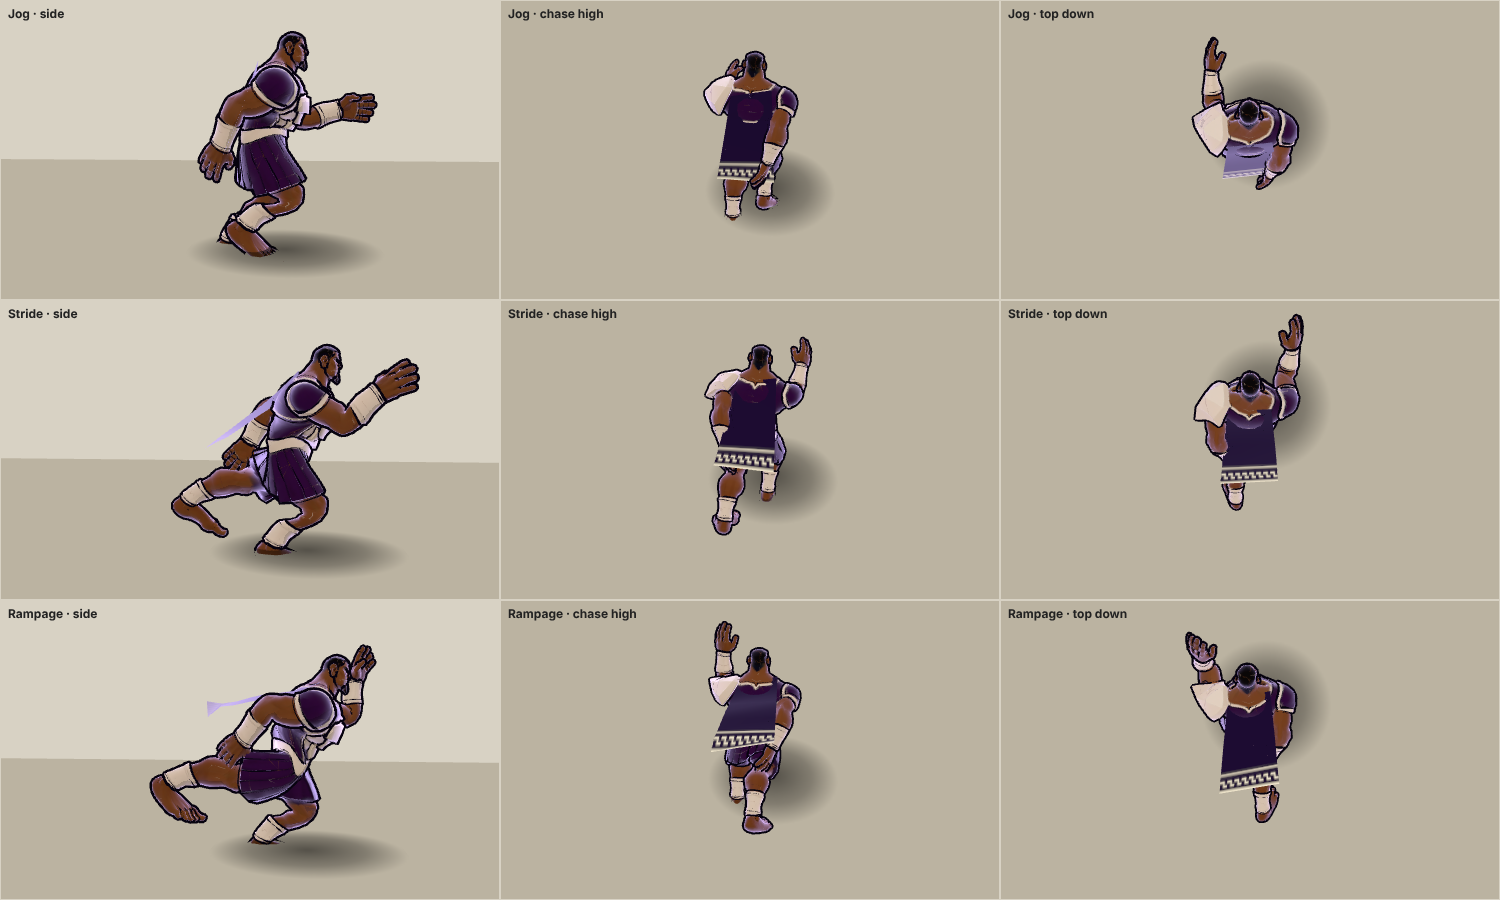
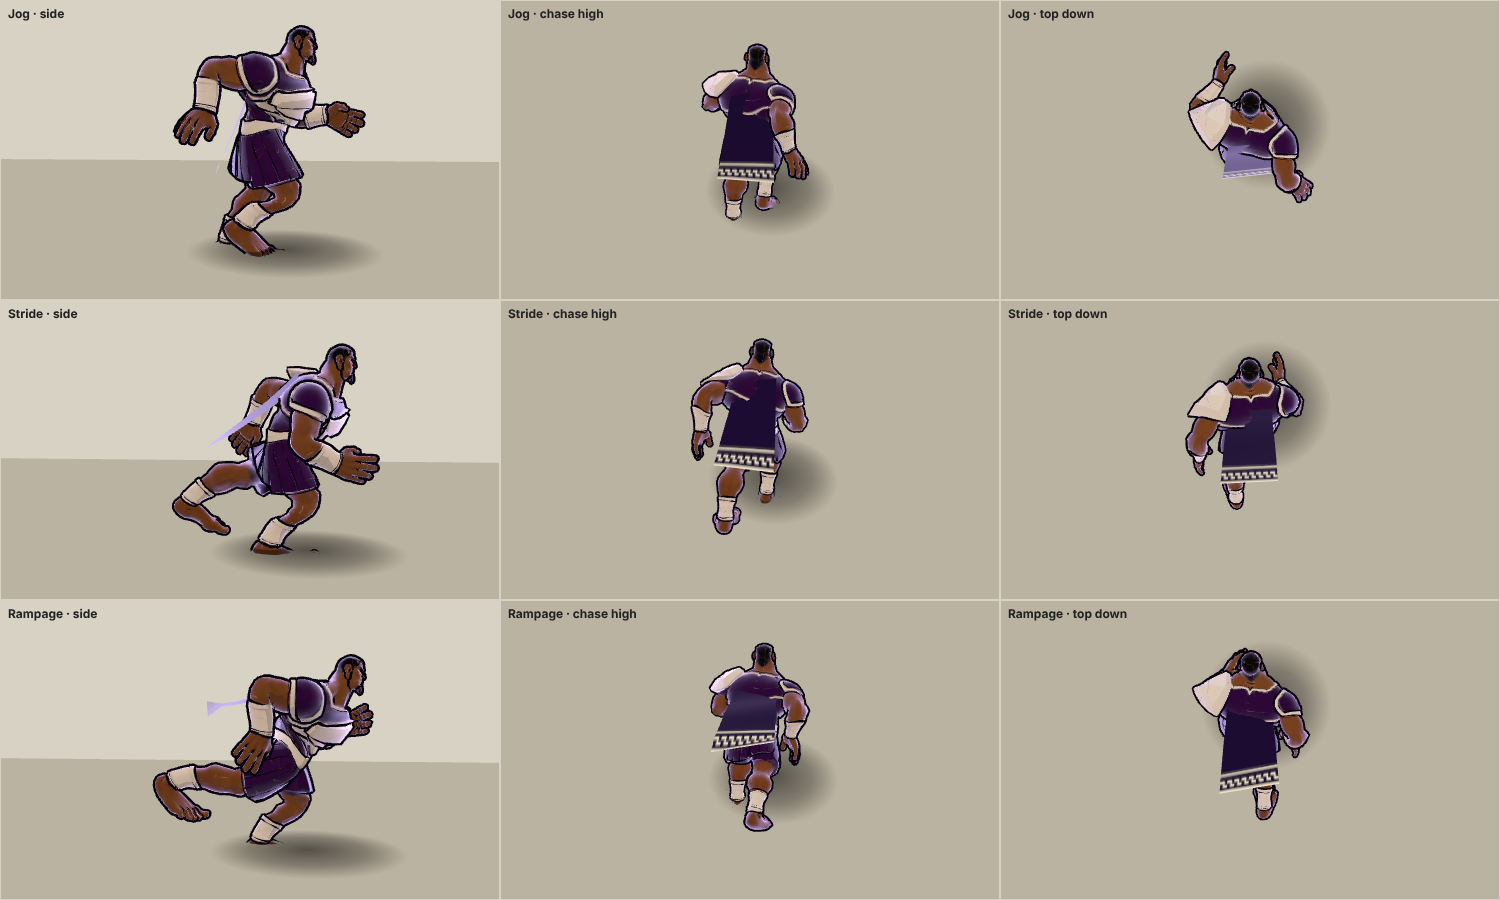
De-jank the Meshy run: gait legs + Meshy's run clip upper body; skip preview builds
Legs and hips stay on the gait (two-bone IK from his own hips to the
gait's planted feet, hips a touch higher), so feet stay pinned. The upper
body plays Meshy's run clip time-locked to the stride, arm swing scaled
per tier, chest held at the tier's lean. Meshy names the spine top-down,
which the first pass had backwards. Stride-strip tool for judging it.
vercel.json skips non-production builds (previews can't fetch the shell).

Claude-Session: https://claude.ai/code/session_01U6CEtzBnsd5sKqjjyRSivB

diff --git a/src/render/giantModel.ts b/src/render/giantModel.ts
@@ -4,13 +4,16 @@ import type { GaitFrame, Vec3 } from '../anim/gait';
 import { TUNING } from '../tuning';
 import { PALETTE } from './palette';
 import { rimToonMap } from './toon';
+import runClip from '../assets/giant/run.json';
 
 /**
  * The Meshy giant (Mike's character sheet → image edit without the cape → image-to-3D →
  * rigging). A presentation skin over the greybox rig: GiantView still computes every pose
- * (gait IK legs, lean, twist, arm pump, flex, steady head); this only aims the skinned bones
- * along it each frame, so feel and the pinned feet are untouched. Meshy's own run clip is
- * not used. Until (or unless) it loads, the greybox shows.
+ * (gait IK legs, lean, twist, flex, steady head); the skinned legs and hips follow it, so feel
+ * and the pinned feet are untouched. The upper body (spine sway, shoulders, arm pump) plays
+ * Meshy's run clip, time-locked to the stride so the arms always swing against the legs, with
+ * the tier's lean and arm amplitude on top. The Pose, the Shoulder Check and Leap take the arms
+ * back to the procedural pose. Until (or unless) it loads, the greybox shows.
  */
 
 /** What the greybox pose gives this frame (world space). */
@@ -24,6 +27,14 @@ export interface GreyboxPose {
   gait: GaitFrame;
   /** Foot pitch per gait leg (rad): toes down while swinging. */
   footPitch: [number, number];
+  /** Continuous step position (two steps = one clip cycle) and tier. */
+  stepPos: number;
+  tier: number;
+  /** The greybox torso's forward lean and bank (rad), without its stride twist (the clip has its own sway). */
+  lean: number;
+  bank: number;
+  /** Pose, Shoulder Check or Leap: arms follow the procedural pose instead of the clip. */
+  armsProcedural: boolean;
 }
 
 interface Chain {
@@ -51,6 +62,15 @@ export class GiantModel {
   /** Turns the model (built facing +Z) to face the greybox's +X. */
   private readonly face = new THREE.Quaternion().setFromAxisAngle(new THREE.Vector3(0, 1, 0), Math.PI / 2);
   private q = [new THREE.Quaternion(), new THREE.Quaternion(), new THREE.Quaternion(), new THREE.Quaternion()];
+  private mixer: THREE.AnimationMixer | null = null;
+  private clipLen = 1;
+  /** Clip time at which its left foot is down; stride phase at the gait's left plant. */
+  private clipLeftPlant = 0;
+  private gaitLeftPhase = 0;
+  private leftWasPlanted = false;
+  private armBlend = 0;
+  /** Thigh and shin lengths in the world (scaled), for the leg IK. */
+  private segLen = new Map<THREE.Bone, number>();
   private p = [new THREE.Vector3(), new THREE.Vector3(), new THREE.Vector3(), new THREE.Vector3()];
 
   load(url: string, onReady: () => void) {
@@ -105,8 +125,31 @@ export class GiantModel {
       this.legs.push({ side: sideOf(b(`${s}UpLeg`)), upper: b(`${s}UpLeg`), lower: b(`${s}Leg`), end: b(`${s}Foot`) });
       this.arms.push({ side: sideOf(b(`${s}Arm`)), upper: b(`${s}Arm`), lower: b(`${s}ForeArm`), end: b(`${s}Hand`) });
     }
+    for (const s of ['Left', 'Right']) {
+      this.segLen.set(b(`${s}UpLeg`), wp(b(`${s}UpLeg`)).distanceTo(wp(b(`${s}Leg`))));
+      this.segLen.set(b(`${s}Leg`), wp(b(`${s}Leg`)).distanceTo(wp(b(`${s}Foot`))));
+    }
     const mid = wp(b('LeftUpLeg')).add(wp(b('RightUpLeg'))).multiplyScalar(0.5);
     this.hipsOffset.copy(wp(b('Hips'))).sub(mid);
+
+    // Meshy's run clip (rotations only): find the moment its left foot is lowest, to lock it to the gait.
+    const clip = THREE.AnimationClip.parse(runClip as unknown as THREE.AnimationClipJSON);
+    this.mixer = new THREE.AnimationMixer(scene);
+    this.mixer.clipAction(clip).play();
+    this.clipLen = clip.duration;
+    let low = Infinity;
+    for (let i = 0; i < 48; i++) {
+      const t = (clip.duration * i) / 48;
+      this.mixer.setTime(t);
+      scene.updateMatrixWorld(true);
+      const y = wp(b('LeftFoot')).y;
+      if (y < low) {
+        low = y;
+        this.clipLeftPlant = t;
+      }
+    }
+    for (const [bone, r] of this.rest) bone.quaternion.copy(r.local);
+    scene.updateMatrixWorld(true);
 
     // Toon shading over the Meshy texture, the night rim, and an ink hull that follows the skin.
     const meshes: THREE.SkinnedMesh[] = [];
@@ -176,37 +219,88 @@ export class GiantModel {
     this.group.quaternion.copy(rootQ).multiply(this.face);
     this.group.updateMatrixWorld(true);
 
-    // Hips: at the gait's hip midpoint, turned like the greybox pelvis.
     const L = g.gait.legs;
+    const M = TUNING.giantModel;
+    // Lock the clip to the stride: the gait's left plant lines up with the clip's.
+    const leftIdx = Math.sign(this.p[1].copy(v(L[0].hip)).sub(this.group.position).dot(right)) < 0 ? 0 : 1;
+    const leftPlanted = L[leftIdx].planted;
+    if (leftPlanted && !this.leftWasPlanted) this.gaitLeftPhase = ((g.stepPos % 2) + 2) % 2;
+    this.leftWasPlanted = leftPlanted;
+    const phase = ((((g.stepPos - this.gaitLeftPhase) % 2) + 2) % 2) / 2;
+    this.mixer!.setTime(this.clipLeftPlant + phase * this.clipLen);
+    this.armBlend += ((g.armsProcedural ? 1 : 0) - this.armBlend) * 0.25;
+
+    // Hips: at the gait's hip midpoint, turned like the greybox pelvis.
     const mid = v(L[0].hip).add(v(L[1].hip, this.p[0])).multiplyScalar(0.5);
     const hipsRel = g.hips.getWorldQuaternion(new THREE.Quaternion()).premultiply(rootInv);
     const hips = b('Hips');
+    // The clip's own pelvis motion (relative to rest), kept on top of the greybox pelvis: the clip's
+    // spine is authored against it, so dropping it makes the torso rock.
+    const clipHips = this.rest.get(hips)!.local.clone().invert().multiply(hips.quaternion);
+    mid.y += M.hipRaise;
     hips.position.copy(hips.parent!.worldToLocal(mid.clone().add(this.hipsOffset.clone().applyQuaternion(rootQ).applyQuaternion(hipsRel))));
     this.follow(hips, g.hips, rootInv, rootQ);
-    // Spine: the torso's lean, bank and twist, spread up the back; head steady like the greybox.
-    this.follow(b('Spine'), g.torso, rootInv, rootQ, 0.5);
-    this.follow(b('Spine01'), g.torso, rootInv, rootQ, 0.8);
-    this.follow(b('Spine02'), g.torso, rootInv, rootQ);
+    this.setWorld(hips, hips.getWorldQuaternion(new THREE.Quaternion()).multiply(clipHips));
+    // Spine: the clip's sway, plus the greybox torso's lean, bank and twist relative to the pelvis.
+    // The chest holds the run's lean: the clip's chest pitches with every arm swing (and its upper back
+    // sits ~20° more upright than its lower back), which read as him standing up mid-stride. Measure the
+    // chest's forward pitch and rotate the whole upper body (at the lower spine) so it lands on the lean;
+    // the clip keeps its sway, roll and arms. Bank on top.
+    // Meshy names the spine top-down: Spine02 sits on the hips, Spine is the chest (neck and shoulders hang off it).
+    const spine = b('Spine02');
+    const chest = b('Spine');
+    spine.updateMatrixWorld(true);
+    const up = new THREE.Vector3(0, 1, 0).applyQuaternion(chest.getWorldQuaternion(new THREE.Quaternion())).applyQuaternion(rootInv);
+    const chestPitch = Math.atan2(up.x, up.y); // + = leaning forward (+X)
+    const want = g.lean * M.clipLean;
+    const delta = new THREE.Quaternion().setFromEuler(new THREE.Euler(g.bank, 0, -(want - chestPitch), 'XYZ'));
+    this.setWorld(spine, delta.premultiply(rootQ).multiply(rootInv).multiply(spine.getWorldQuaternion(new THREE.Quaternion())));
     this.follow(b('Head'), g.head, rootInv, rootQ);
+    // Clip arms, swing scaled per tier (smaller at Jog, bigger at Rampage).
+    const amp = M.armAmp[g.tier];
+    for (const c of this.arms) for (const bone of [c.upper, c.lower]) {
+      const r = this.rest.get(bone)!;
+      bone.quaternion.copy(r.local.clone().slerp(bone.quaternion, amp));
+    }
+    b('Spine02').updateMatrixWorld(true);
 
-    // Legs along the gait IK: thigh to the knee, shin to the foot, foot flat (toes down in swing).
+    // Legs: two-bone IK from his own hip to the gait's foot (so planted feet stay exactly where the
+    // gait put them), knee bending forward; foot flat, toes down in swing.
+    const fwd = new THREE.Vector3(1, 0, 0).applyQuaternion(rootQ);
     for (const c of this.legs) {
       const gi = Math.sign(this.p[1].copy(v(L[0].hip)).sub(this.group.position).dot(right)) === c.side ? 0 : 1;
       const leg = L[gi];
-      this.aim(c.upper, v(leg.knee).sub(v(leg.hip, this.p[1])));
-      this.aim(c.lower, v(leg.foot).sub(v(leg.knee, this.p[1])));
+      const hip = c.upper.getWorldPosition(new THREE.Vector3());
+      const foot = v(leg.foot);
+      const a = this.segLen.get(c.upper)!, bl = this.segLen.get(c.lower)!;
+      const toFoot = foot.clone().sub(hip);
+      const d = Math.min(toFoot.length(), (a + bl) * 0.999);
+      const u = toFoot.normalize();
+      const cosA = (a * a + d * d - bl * bl) / (2 * a * d);
+      const sinA = Math.sqrt(Math.max(0, 1 - cosA * cosA));
+      const n = fwd.clone().addScaledVector(u, -fwd.dot(u)).normalize();
+      const knee = hip.clone().addScaledVector(u, a * cosA).addScaledVector(n, a * sinA);
+      this.aim(c.upper, knee.clone().sub(hip));
+      this.aim(c.lower, hip.addScaledVector(u, d).sub(knee));
       const pitch = new THREE.Quaternion().setFromAxisAngle(new THREE.Vector3(0, 0, 1), -g.footPitch[gi]);
       this.setWorld(c.end, pitch.premultiply(rootQ).multiply(this.rest.get(c.end)!.world));
     }
-    // Arms along the greybox arm: upper arm to the elbow, forearm to the fist.
+    // Pose / Shoulder Check / Leap: arms along the greybox arm (upper arm to the elbow, forearm to the fist).
+    if (this.armBlend < 0.02) return;
     for (const c of this.arms) {
       const a = g.arms.find((x) => x.side === c.side);
       if (!a) continue;
       const sh = a.shoulder.getWorldPosition(new THREE.Vector3());
       const el = a.elbow.getWorldPosition(new THREE.Vector3());
       const fist = a.elbow.localToWorld(new THREE.Vector3(0, -0.7, 0));
+      const clipUpper = c.upper.quaternion.clone();
       this.aim(c.upper, el.clone().sub(sh));
+      c.upper.quaternion.copy(clipUpper.slerp(c.upper.quaternion, this.armBlend));
+      c.upper.updateMatrixWorld(true);
+      const clipLower = c.lower.quaternion.clone();
       this.aim(c.lower, fist.sub(el));
+      c.lower.quaternion.copy(clipLower.slerp(c.lower.quaternion, this.armBlend));
+      c.lower.updateMatrixWorld(true);
     }
   }
 }

diff --git a/tools/modelsheet/strip.ts b/tools/modelsheet/strip.ts
@@ -1,0 +1,63 @@
+/**
+ * Stride strip (dev only): one tier, eight moments across a stride (one full left+right cycle),
+ * from the side and from Chase High. For judging the run cycle on the Meshy model frame by frame.
+ * /tools/modelsheet/strip.html?tier=2[&greybox=1]
+ */
+import * as THREE from 'three';
+import { GiantView } from '../../src/render/giant';
+import { Gait } from '../../src/anim/gait';
+import { TUNING } from '../../src/tuning';
+
+const q = new URLSearchParams(location.search);
+const tier = Number(q.get('tier') ?? 2);
+const greybox = q.get('greybox') === '1';
+const N = 8, W = 1600, H = 560, cw = W / N, ch = H / 2;
+const renderer = new THREE.WebGLRenderer({ canvas: document.getElementById('c') as HTMLCanvasElement, antialias: true, preserveDrawingBuffer: true });
+renderer.setSize(W, H);
+renderer.setScissorTest(true);
+const scene = new THREE.Scene();
+scene.background = new THREE.Color(0xd8d2c4);
+scene.add(new THREE.HemisphereLight(0xffffff, 0x8a8070, 1.6));
+const sun = new THREE.DirectionalLight(0xffffff, 1.8);
+sun.position.set(-4, 10, 6);
+scene.add(sun);
+const ground = new THREE.Mesh(new THREE.PlaneGeometry(2000, 40), new THREE.MeshLambertMaterial({ color: 0xbdb5a3 }));
+ground.rotation.x = -Math.PI / 2;
+scene.add(ground);
+const giant = new GiantView();
+for (const o of giant.objects) scene.add(o);
+if (!greybox) await giant.ready;
+const gait = new Gait();
+const T = TUNING.tiers[tier];
+const speed = T.topSpeed, stepLen = speed / T.cadence, dt = 1 / 60;
+let x = 0, stepPos = 0, t = 0;
+const step = (secs: number) => {
+  for (let k = 0; k < Math.round(secs / dt); k++) {
+    x += speed * dt;
+    stepPos += (speed * dt) / stepLen;
+    t += dt;
+    const gf = gait.update({ x, z: 0, fx: 1, fz: 0, speed, stepPos, stepLen, tier, dt });
+    giant.update(dt, { x, z: 0, heading: 0, travel: 0, lateralVel: 0, speed, tier, braking: false, stumble: 0, stepPos }, gf);
+  }
+};
+step(3);
+const cycle = 2 / T.cadence; // two steps = one full stride cycle
+const labels = document.getElementById('l')!;
+for (let i = 0; i < N; i++) {
+  if (i) step(cycle / N);
+  for (let v = 0; v < 2; v++) {
+    const cam = new THREE.PerspectiveCamera(30, cw / ch, 0.1, 200);
+    cam.position.set(v === 0 ? x + 0.5 : x - 9, v === 0 ? 2.0 : 9, v === 0 ? 10 : 1.5);
+    cam.lookAt(x - (v ? 0.6 : 0), 1.6, 0);
+    const px = i * cw, py = H - (v + 1) * ch;
+    renderer.setViewport(px, py, cw, ch);
+    renderer.setScissor(px + 1, py + 1, cw - 2, ch - 2);
+    renderer.render(scene, cam);
+  }
+  const s = document.createElement('span');
+  s.style.left = `${i * cw + 6}px`;
+  s.style.top = '4px';
+  s.textContent = `${Math.round((i / N) * 100)}%`;
+  labels.append(s);
+}
+(window as unknown as { __SHEET: boolean }).__SHEET = true;

diff --git a/src/tuning.ts b/src/tuning.ts
@@ -126,6 +126,11 @@ export const TUNING = {
     braidFollow: 0.05,
     /** Share of the cape's length that is the cream Greek-key hem (Mike's sheet). */
     capeHemShare: 0.2,
+    /** Meshy model, upper body on Meshy's run clip: share of the greybox lean added on top of the clip's own, and the arm swing per tier (1 = the clip's). */
+    clipLean: 1,
+    /** His hips ride this much above the gait's (m): straighter legs on a realistic body; the IK still lands the feet. */
+    hipRaise: 0.12,
+    armAmp: [0.8, 1.05, 1.3],
     /** Meshy model: texture multiplier, so his silhouette holds ≥3:1 against a lit road (§23, silhouette test). */
     tint: 0.75,
     /** Meshy model: ink outline thickness around the skinned mesh (m), as the greybox hull. */

diff --git a/src/render/giant.ts b/src/render/giant.ts
@@ -438,6 +438,11 @@ export class GiantView {
       ],
       gait: { ...gait, legs: this.legPose },
       footPitch: [gait.legs[0].planted ? 0 : 0.35, gait.legs[1].planted ? 0 : 0.35],
+      stepPos: p.stepPos,
+      tier: p.tier,
+      armsProcedural: (p.pose ?? 0) > 0 || sh > 0 || (p.leap ?? 0) > 0,
+      lean: this.lean * (1 - (p.pose ?? 0) * 0.8),
+      bank: this.bank,
     });
     this.updateCape(dt, p);
   }

diff --git a/tools/modelsheet/strip.html b/tools/modelsheet/strip.html
@@ -1,0 +1,4 @@
+<!doctype html>
+<html><head><meta charset="utf-8"><title>Giant stride strip</title>
+<style>html,body{margin:0;background:#d8d2c4;font:12px system-ui;color:#222}canvas{display:block}#l{position:absolute;inset:0;pointer-events:none}#l span{position:absolute;font-weight:700}</style></head>
+<body><canvas id="c"></canvas><div id="l"></div><script type="module" src="./strip.ts"></script></body></html>

diff --git a/DECISIONS.md b/DECISIONS.md
@@ -4,6 +4,7 @@ Build-time decisions, working defaults for open questions (GDD §46), and deviat
 
 | Date | Decision | Why | Revisit |
 |---|---|---|---|
+| 2026-11-14 | **Meshy giant's run de-janked: a hybrid of the gait and Meshy's run clip** (Mike: "looks a bit jank"). Diagnosed with a stride strip (`tools/strip.mjs`, eight moments × side/chase). Causes: the greybox arm pump on longer arms threw open hands overhead; legs copied greybox knee points, giving a deep squat; the greybox stride twist on a leaning spine swung the lean sideways; and **Meshy names the spine top-down** (Spine02 sits on the hips, Spine is the chest), so the first pass spread the lean upside-down. Now: **legs and hips** stay on the gait (two-bone IK from his own hips to the gait's planted feet, knees forward, hips 0.12m higher), so feet stay pinned and the stride and bound are unchanged. **The upper body plays Meshy's run clip** (rotations only, 22 KB `run.json`), time-locked to the stride (the clip's left plant aligned to the gait's), with arm swing per tier ×0.8 / ×1.05 / ×1.3. The **chest is held at the tier's lean** every frame (20° / 30° / 40°) while the clip keeps its sway and roll. Pose, Shoulder Check and Leap blend the arms back to the procedural pose. **Previews:** `vercel.json` `ignoreCommand` skips every non-production build (Mike: B), since GITHUB_TOKEN is production-only. | Mike's playtest. | Mike's playtest |
 | 2026-11-14 | **Onboarding and the upgrade economy made visible** (Mike: weak onboarding; "earning for upgrades feels weak and unexplained"). The economy itself is unchanged: budget = banked score = viewers × gear multiplier (×1 / ×1.5 / ×2) every second, and spending never lowers the score. What changed is that it shows. **Producer tips** (`src/tips.ts`): nine one-line notes, each shown once, the first time it matters (shift up by holding top speed; Stride / Rampage and what they smash; why you bounced; bulldozer ahead; close call; "we're losing them"; exit open; where the budget comes from), at most one at a time, 4.5s each, 3s apart. Settings → Producer Tips (turning them back on replays them). **Full Broadcast HUD:** a live BUDGET counter under the viewers meter, with the gear multiplier. **Recap:** "Added to budget +N" and how it's earned. **Meeting:** one line of how it works; pitches you can't afford say "Need N more". **Debug overlay now defaults Off** (it defaulted On for every player; older saves migrate to Off unless the player turned it on). | Mike's playtest. | Mike's playtest: are prices right once earning is visible |
 | 2026-11-14 | **The Meshy giant is in** (Mike: "Meshy please"). Pipeline from his brown-skin sheet: image edit, same character without the cape, A-pose (12 credits) → image-to-3D, smart topology, 15.8k triangles, 2K base colour, no PBR (15) → rigging, 24 bones, 3.6m (5). **32 credits** total; 760 left. Meshy's run clip is **not** used: `GiantModel` (`src/render/giantModel.ts`) aims the skinned bones along the greybox rig every frame. Legs follow the gait IK (scaled so his legs match it, so planted feet stay pinned), the spine and head follow the lean, bank, twist and steady head, and the arms follow the pump, flex and shoulder check. The greybox meshes hide once it loads and stay as the fallback (and with `?greybox=1`). The cape stays procedural, clasped on his **left** under the pauldron as on the sheet, now with a cream Greek-key hem (canvas texture). Toon shading over the Meshy texture with the night rim; an ink hull follows the skin (sized in skinning units, 69 per metre). **His texture is multiplied by 0.75** so he holds ≥3:1 in the silhouette test (at ×1 he failed 6 of 18 angle/look combinations; §23 the giant is the darkest thing). The model is `src/assets/giant/giant.glb` (3.6 MB); Meshy working files are in `meshy_output/` (gitignored). | Mike's sheet. | Mike's playtest (arm pump height, darkening, cape fit) |
 | 2026-11-14 | **The game is "Giant at Large"** (Mike), with the tagline "Warn your friends." Page title, shell game name and the live title screen ("GIANT / AT LARGE"). The cover art is Mike's brown-skin "Giant at Large" version. Kept: `gameId` `warn-your-friends` (it keys saves and bests), the repo and site names, and the in-game station WYF 6 (the tagline still explains it). His brown-skin character sheet is in `docs/refs/giant-character-sheet.webp` for the Meshy model. Skin measured on the sheet: hue ~20° (#894a28 thigh, #6f3b21 face; the old one was ~2°, pure red), a warm brown that can still read reddish under sodium light. | Mike's call. | — |

diff --git a/CLAUDE.md b/CLAUDE.md
@@ -39,6 +39,7 @@ tools/shots.mjs      evidence screenshots + silhouette numbers per angle and loo
 tools/shots-phase2.mjs  Phase 2 evidence: tells, zones, exit, recap
 tools/shots-phase3.mjs  Phase 3 evidence: each ability mid-action
 tools/modelsheet.mjs    giant turnaround (side / Chase High / top down × tiers), dev page in tools/modelsheet/
+tools/strip.mjs         stride strip: one tier, eight moments of a stride (side / chase); GREYBOX=1 for the old rig
 tools/shots-model.mjs   model pass evidence: tiers in game, cape on a lane change, PS4 HUD
 tools/shots-title.mjs   title screen (desktop, phone, glide)
 tools/filmstrip.mjs     slow-motion strip of an impact (smash-heavy, bounce, bounce-immovable)
